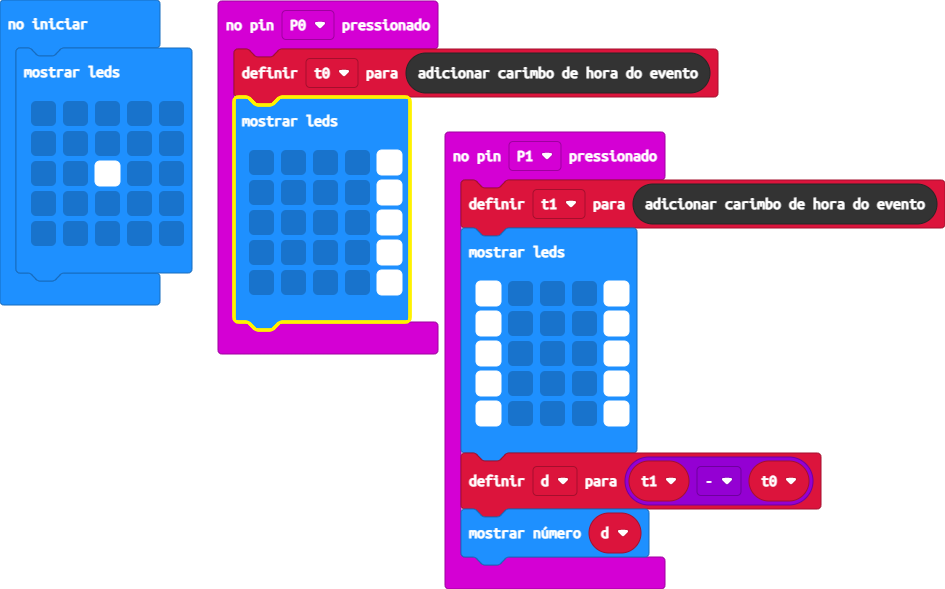
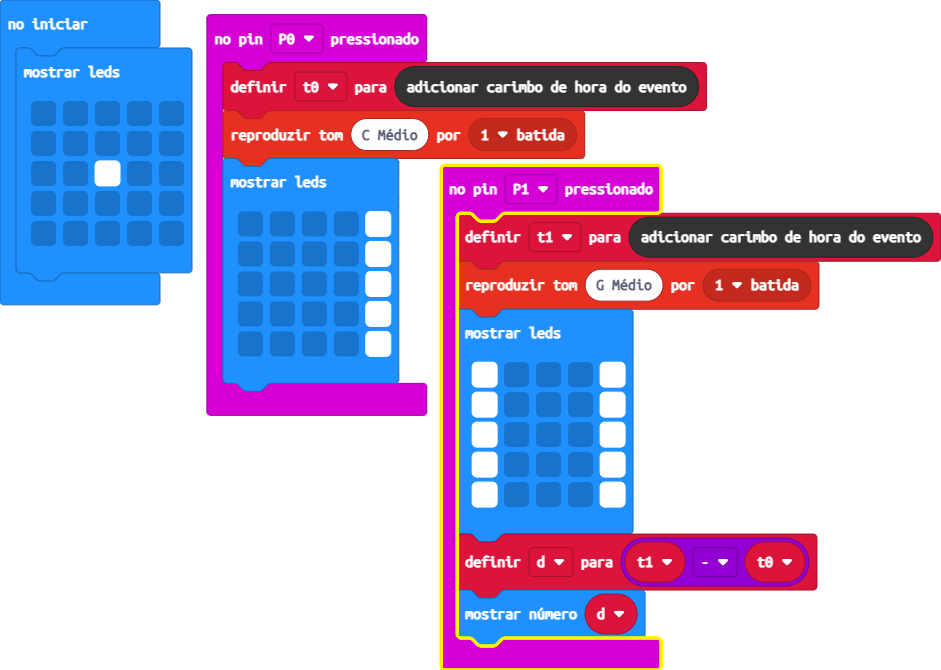
Atualizar 'main.ts, main.blocks'

Changed region(s): [[0.0, 0.0, 1.0, 1.0]]

diff --git a/main.ts b/main.ts
@@ -1,5 +1,6 @@
 input.onPinPressed(TouchPin.P0, function () {
     t0 = control.eventTimestamp()
+    music.playTone(262, music.beat(BeatFraction.Whole))
     basic.showLeds(`
         . . . . #
         . . . . #
@@ -10,6 +11,7 @@ input.onPinPressed(TouchPin.P0, function () {
 })
 input.onPinPressed(TouchPin.P1, function () {
     t1 = control.eventTimestamp()
+    music.playTone(392, music.beat(BeatFraction.Whole))
     basic.showLeds(`
         # . . . #
         # . . . #
